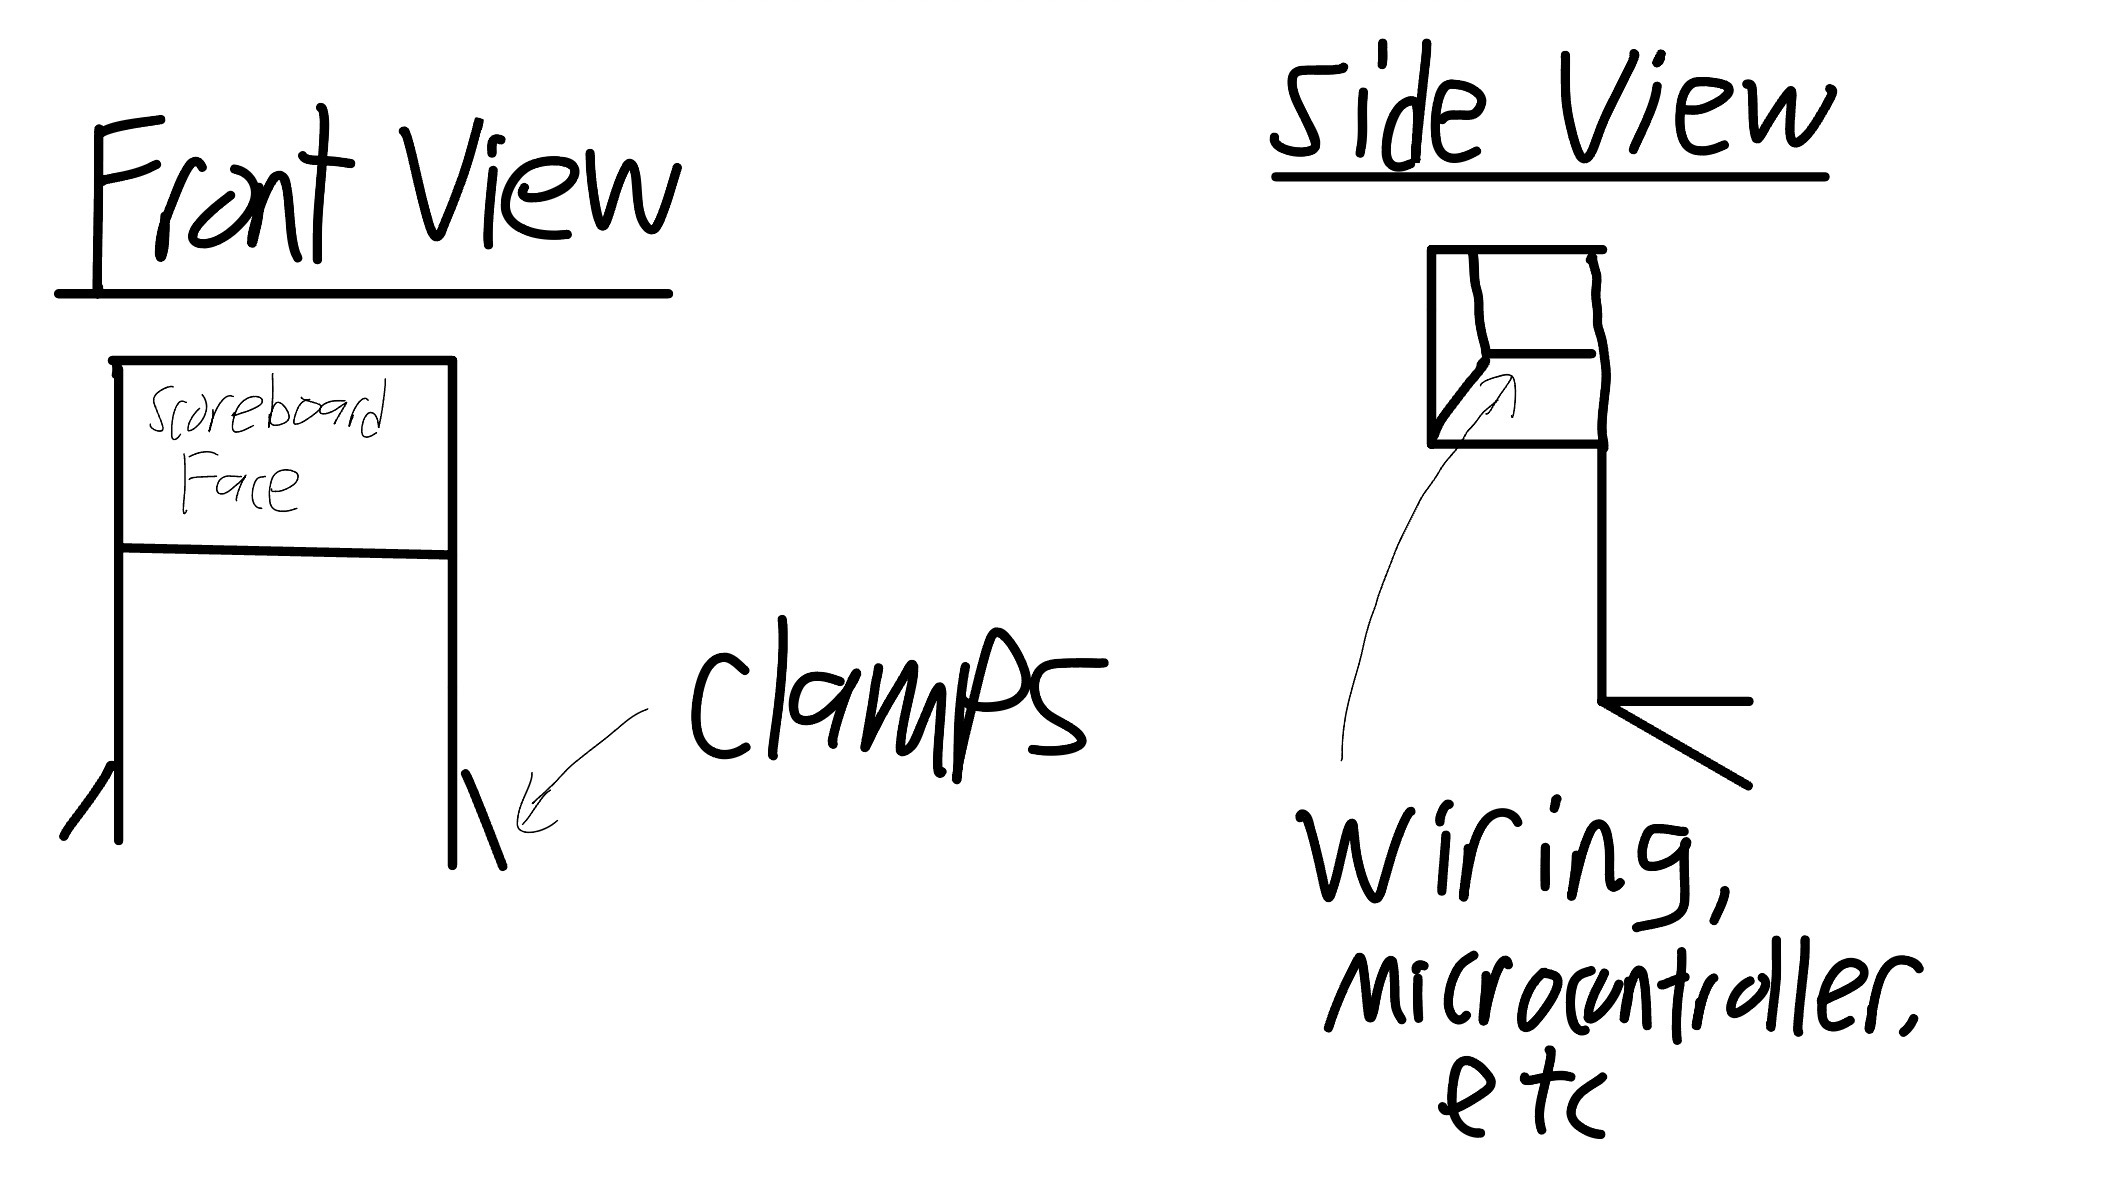
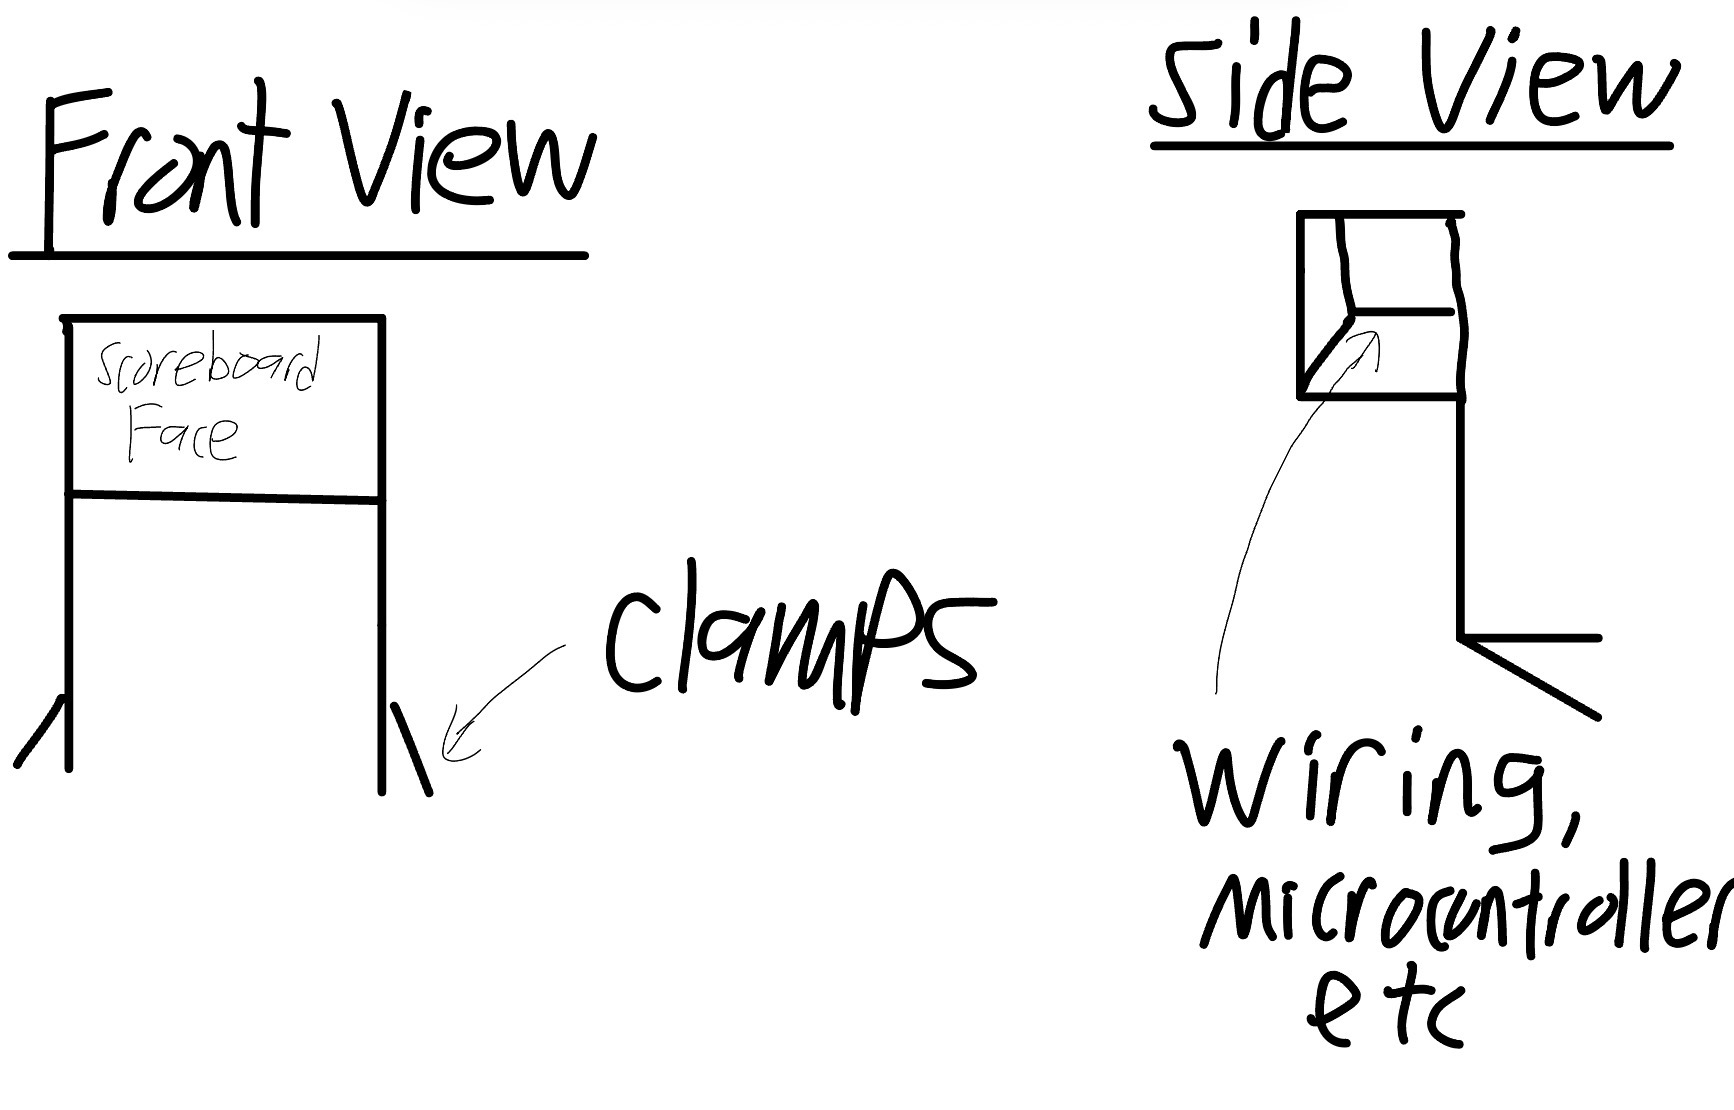
Updating final project ideas

diff --git a/01_intro/index.html b/01_intro/index.html
@@ -27,22 +27,59 @@
         What inspired you to create this project? What do you think this project will look like once it's completed?
         When playing ping-pong it is very easy to lose track of score and 
          it is annoying to use any scoring app since it requires going to your phone after
-         every rally and when one person controls the scoreboard cheating is easily possible.
-         My solution would be a physical scoreboard that mounts to the table and is controlled by remote controls
-         that all players would have. This remote control would change the score (inc/dec) and in order to prevent
-         cheating all players must an input on their controlelr for the score change to occur.
+         every rally and when one person controls the scoreboard cheating is easily possible. (especially with my friends)
       </p>
 
-      <!-- Media should be put in the asset folder of their respective week -->
-      <img src="./Assets/IMG_1976.jpg" alt="">
-      <p class="caption">Include some sketches and pictures!</p>
+      <p>
+       My solution would be a physical scoreboard that mounts to the table and is controlled by remote controls
+         that both players would have. This remote control would change the score (inc/dec) and in order to prevent
+         cheating both players must make an input on their controller for the score change to occur. 
+      </p>
+         
 
+      <!-- Media should be put in the asset folder of their respective week -->
+      <img src="./Assets/scoreboard_sketch2.jpg" alt="">
+      <p class="caption">The scoreboard will be elevated with the elecronic components hidden in 
+        in a compartment behind the scoreboard face.
+      </p>
+
+       <img src="./Assets/pingpong_clamp.JPG" alt="">
+      <p class="caption">The mount used would be the same/similar to the clamp down mounts ping-pong nets
+        typically use.
+      </p>
+
+      
       <img src="./Assets/controller.jpeg" alt="">
       <p class="caption">This would be roughly how the remote controller looks (ideally pocket sized)!</p>
 
-      <h2>Project Idea 2</h2>
+      <h2>Idea 2: Liquid Usage Sensor</h2>
 
-      <h2>Project Idea 3</h2>
+      <p> 
+        My second idea is a weight sensor that mounts at the bottom of a liquid container: milk, water jugs, etc.
+        The user would put this sensor on a new container and would input the volume of liquid inside (on the label of the container). Then after
+        each use of the substance inside, the sensor would report the amount used and the amount remaining through 
+        a screen. It would do this through a microcontroller that would take the weight data and use it to make calcualtions. 
+        The microcontroller could also easily convert the displayed data to various units of measure.
+
+        
+      </p>
+
+      <img src="./Assets/scale_sketch.jpg" alt="">
+      <p class="caption">This would be about how the whole device would look</p>
+
+      <img src="./Assets/example_scale.jpg" alt="">
+      <p class="caption">This is an example of how the device would look when mounted to a container.
+        If possible I would love the base of the device to be adjustable to fit various container sizes.
+        
+      </p>
+      
+      <h2>Idea 3: Garden Pot Irrigation Ring</h2>
+
+      <p>
+        My third idea is a irrigation system for garden pots that clips onto the edge of the pot.
+        There would be tubes that aim water into the soil of the pot. The activation of water dispensing
+        could be triggered remotely or based on a timer system. 
+      </p>
     </section>
   </body>
 